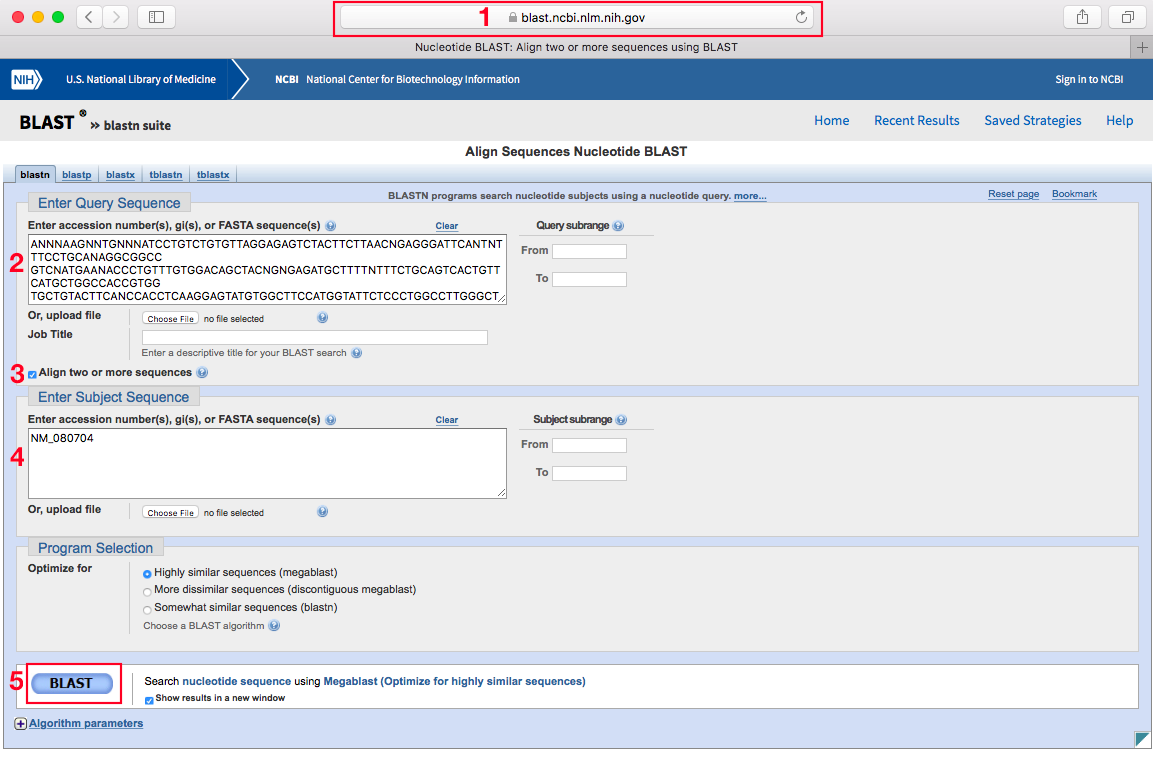
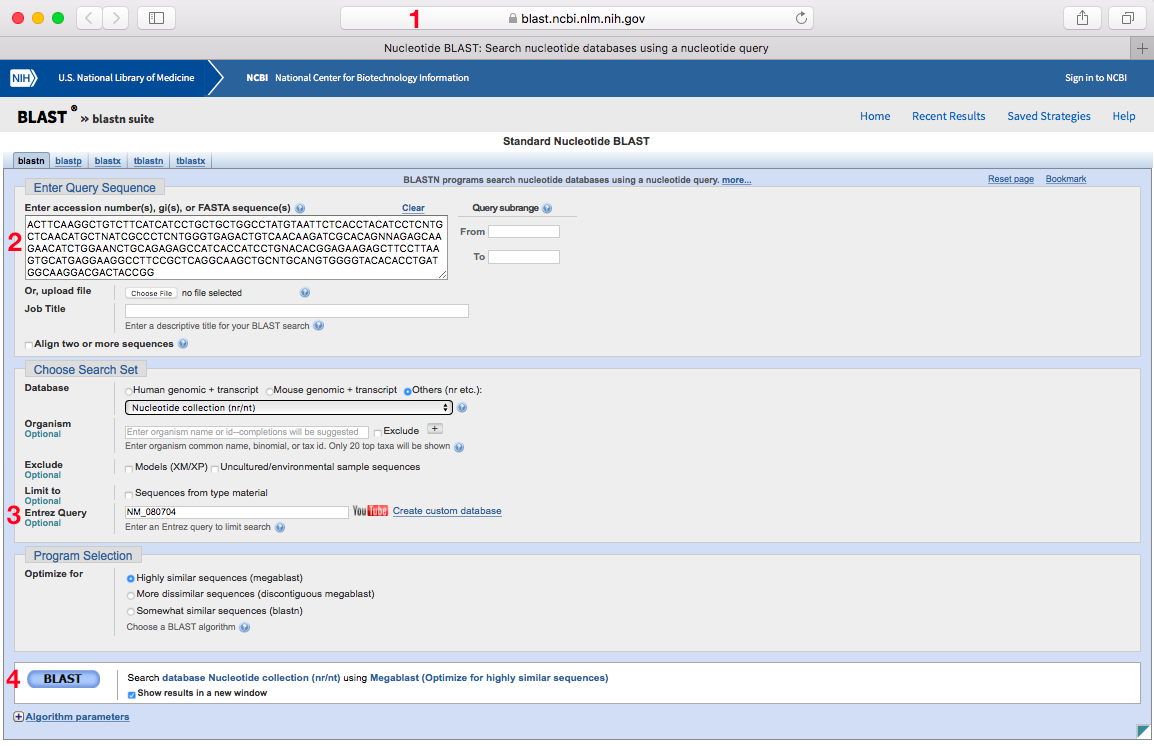
Edit README

Changed region(s): [[0.0, 0.0, 1.0, 1.0], [0.4371, 0.555, 0.4683, 0.5858]]

diff --git a/README.md b/README.md
@@ -1,39 +1,27 @@
 # Site-Directed Mutagenesis Verifier (SDMV)
 
-SDMV quickly verifies the success of site-directed mutagenesis with two usage options: 
-
-1. Upload an alignment file downloaded from BLASTN. 
-2. Copy and paste query sequence and reference sequence accession number (easiest).
+SDMV quickly verifies the success of site-directed mutagenesis when given target mutation(s), query sequence(s), and reference sequence accession number.
 
 ### To begin the program: 
 
-Command line: `java alignmentparser.Main [mutation1] [mutation2]`
+Command line: `java SDMV.Main [mutation1]`
 
-At least one mutation argument is required, and it must be formatted in amino acid mutation notation, e.g. L547M. 
+At least one mutation argument must be provided and formatted in amino acid mutation notation, e.g. L547M. 
 
-### How to obtain a BLASTN alignment file:
+### How to reproduce alignment in Web Blast:
 
-Since option 1 consists of uploading an alignment file downloaded from BLASTN, you need to obtain the alignment file first. 
-
-What you will need: 
-
-- a web browser
-- query sequence (your mutated sequence)
-- reference sequence or its accession number
-
-This example uses Safari, a query sequence copied from a .seq file, and a reference sequence accession number. The query sequence is a segment of the human TRPV1 protein that is supposed to have undergone site-directed mutagenesis with the mutation L547M. 
+This example uses Safari, a query sequence copied from a .seq file, and the reference sequence with the accession number NM_080704. The query sequence is a segment of the human TRPV1 protein that is supposed to have undergone site-directed mutagenesis with the mutation L547M. 
 
 Instructions:
 
-![Steps for obtaining the alignment file](/img/blastn.png)
+![Steps for reproducing results in Web Blast](/img/blastn.png)
 
 1. Open your browser and navigate to the [BLASTN page](https://blast.ncbi.nlm.nih.gov/Blast.cgi?PROGRAM=blastn&PAGE_TYPE=BlastSearch&LINK_LOC=blasthome).
-2. Copy and paste the query sequence in the "Enter Query Sequence" section.
-3. Check the "Align two or more sequences" box. 
-4. Enter the accession number in the "Enter Subject Sequence" section.
-5. Press "BLAST".
+2. Copy and paste the query sequence in the "Enter Query Sequence" input field.
+3. Enter the reference sequence accession number in the "Entrez Query" input field.
+4. Press "BLAST".
 
-![Steps for obtaining the alignment file, part 2](img/blastn2.png)
+![Steps for reproducing results in Web Blast, part 2](img/blastn2.png)
 
-6. Open the "Download" drop-down menu. 
-7. Download the alignment formatted as single-file JSON.
+5. Open the "Download" drop-down menu. 
+6. Download the alignment formatted as single-file JSON.
